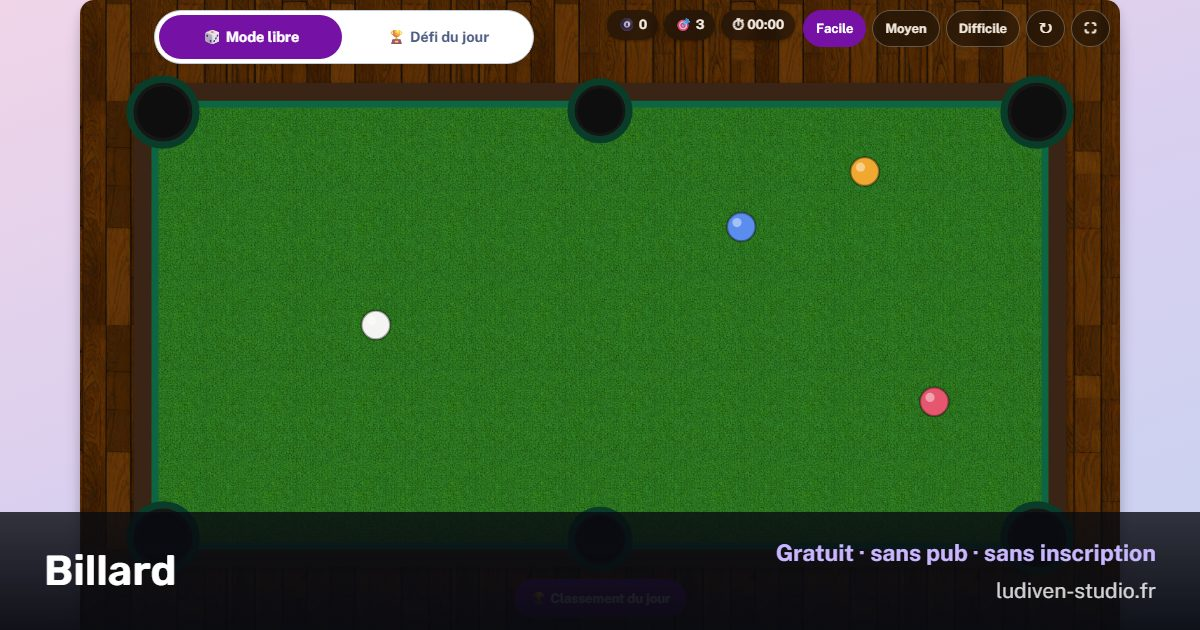
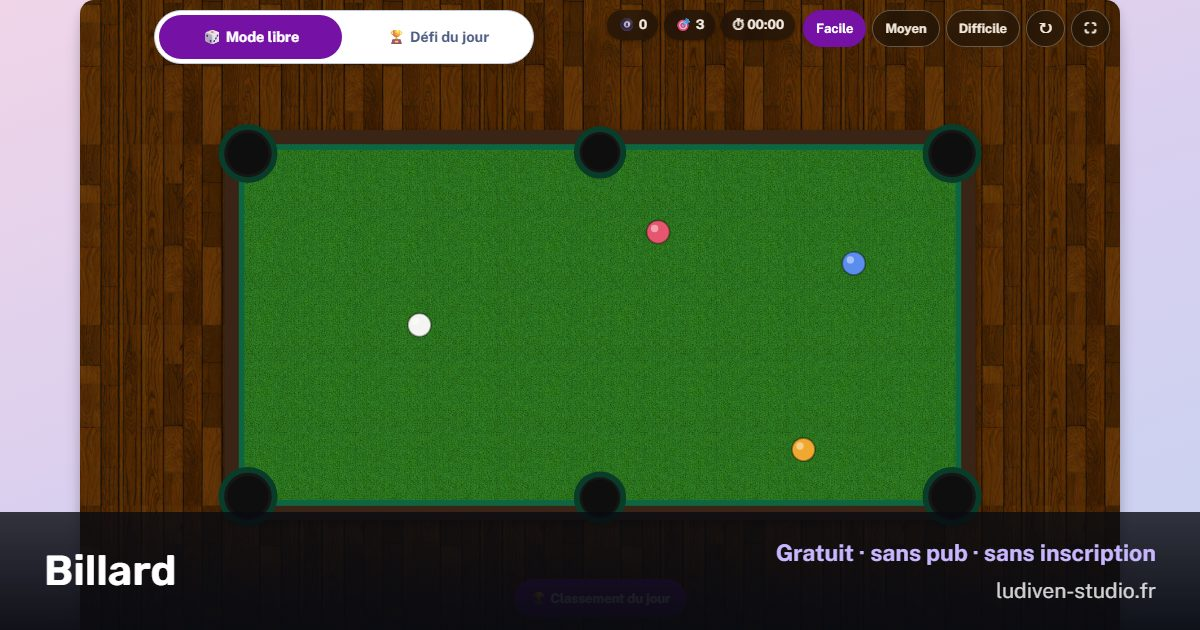
[CHANGED] Updated games

diff --git a/src/games/billard/BillardGame.tsx b/src/games/billard/BillardGame.tsx
@@ -29,7 +29,7 @@ const CUE_COLOR = '#f4f4f2';
 const FELT = '#0f7a52';
 const FELT_DARK = '#0c6644';
 const FELT_TILES = 10; // felt-texture repeats across the table width (higher = finer nap)
-const MIN_FLOOR = 16; // minimum floor units around the table (the floor then fills all remaining space)
+const MIN_FLOOR = 40; // minimum floor units around the table (the floor then fills all remaining space)
 
 const SINK_MS = 280; // pot animation duration
 type Sink = { x: number; y: number; px: number; py: number; r: number; color: number; kind: 'cue' | 'color'; t0: number };